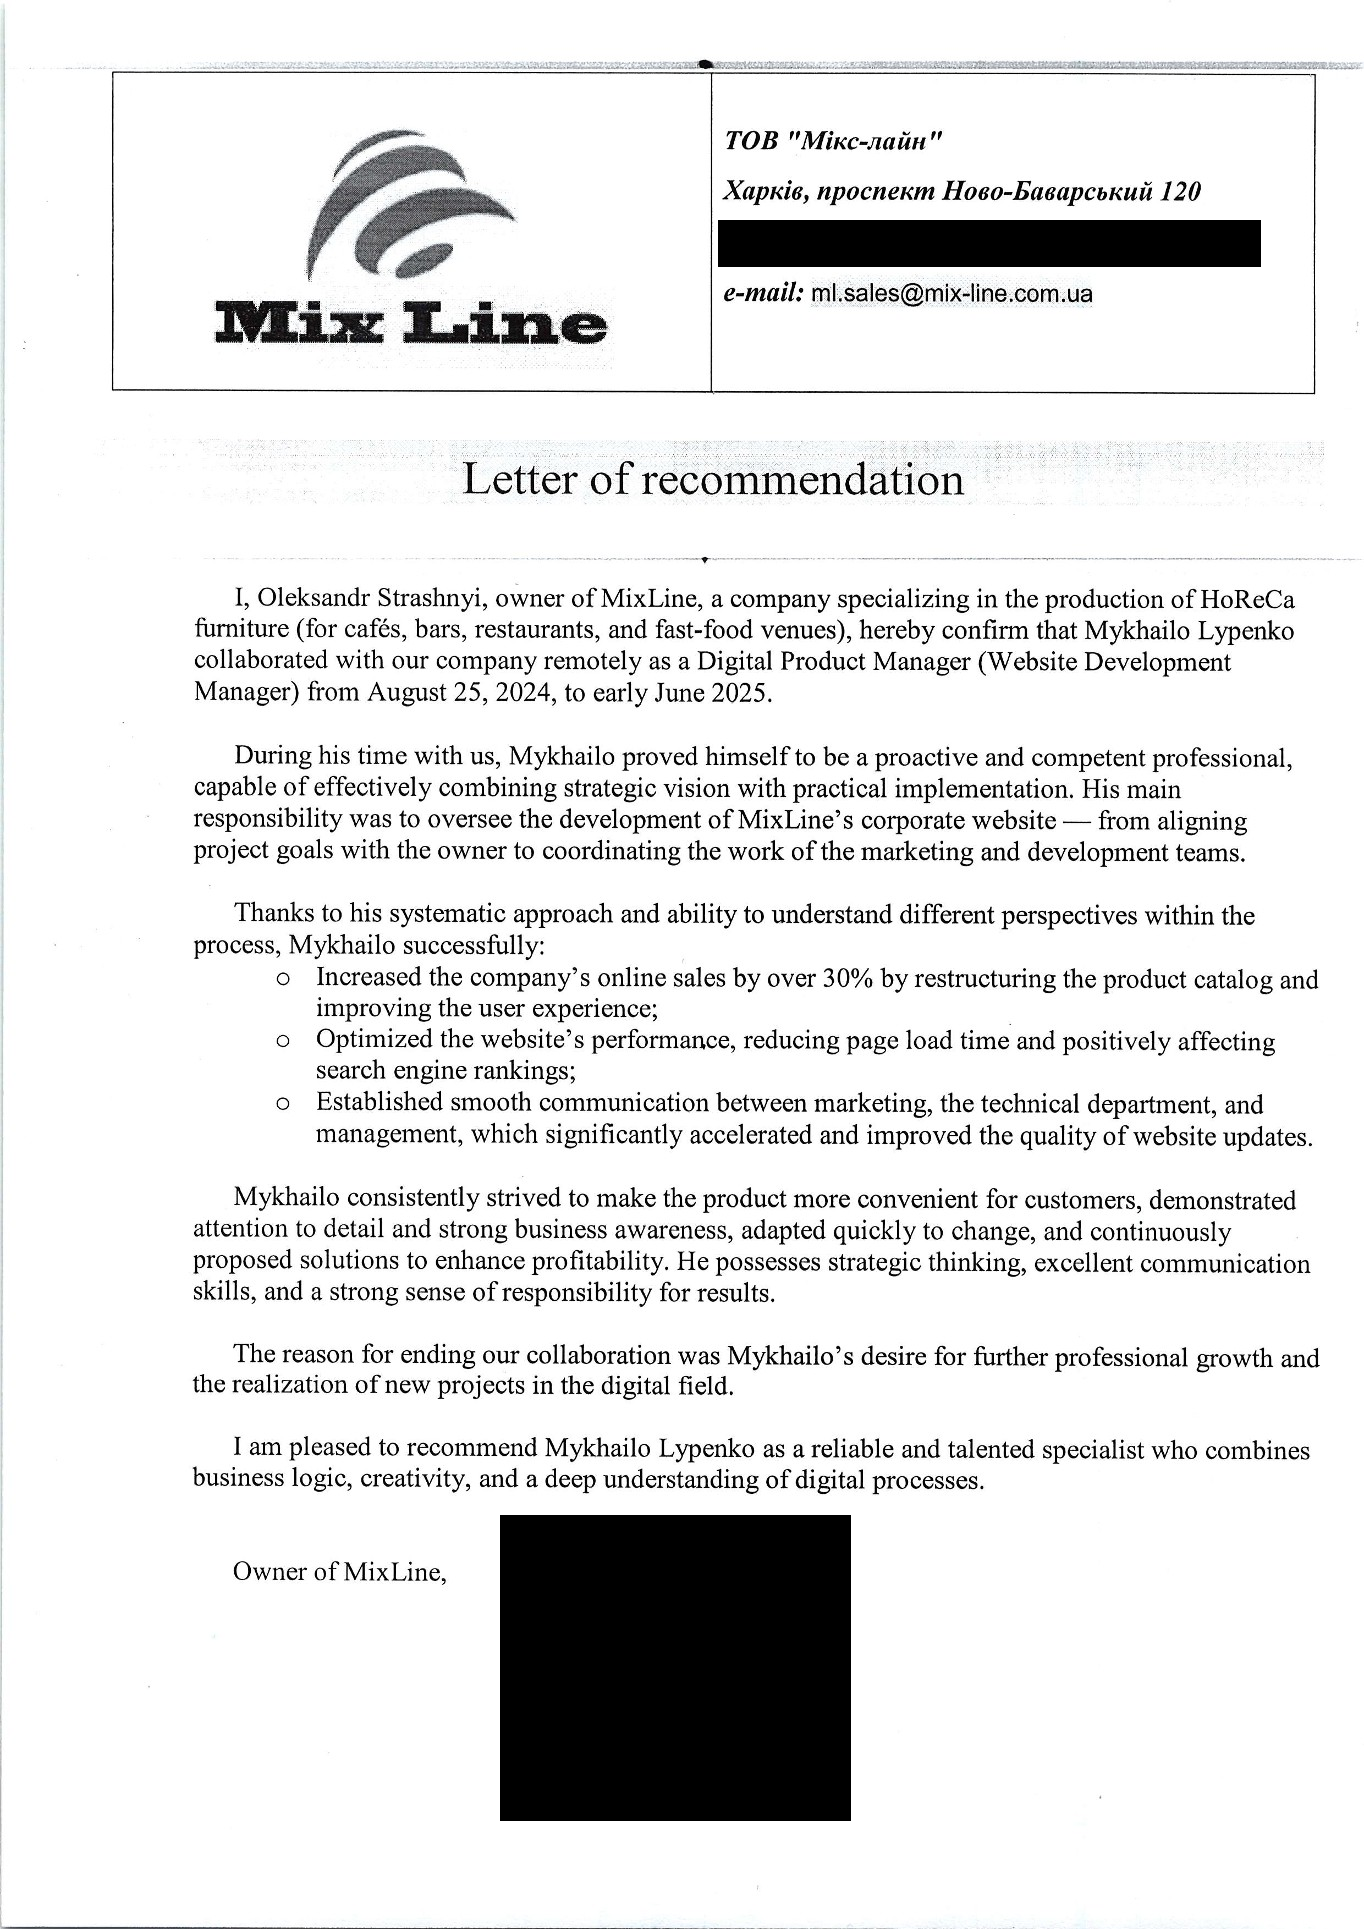
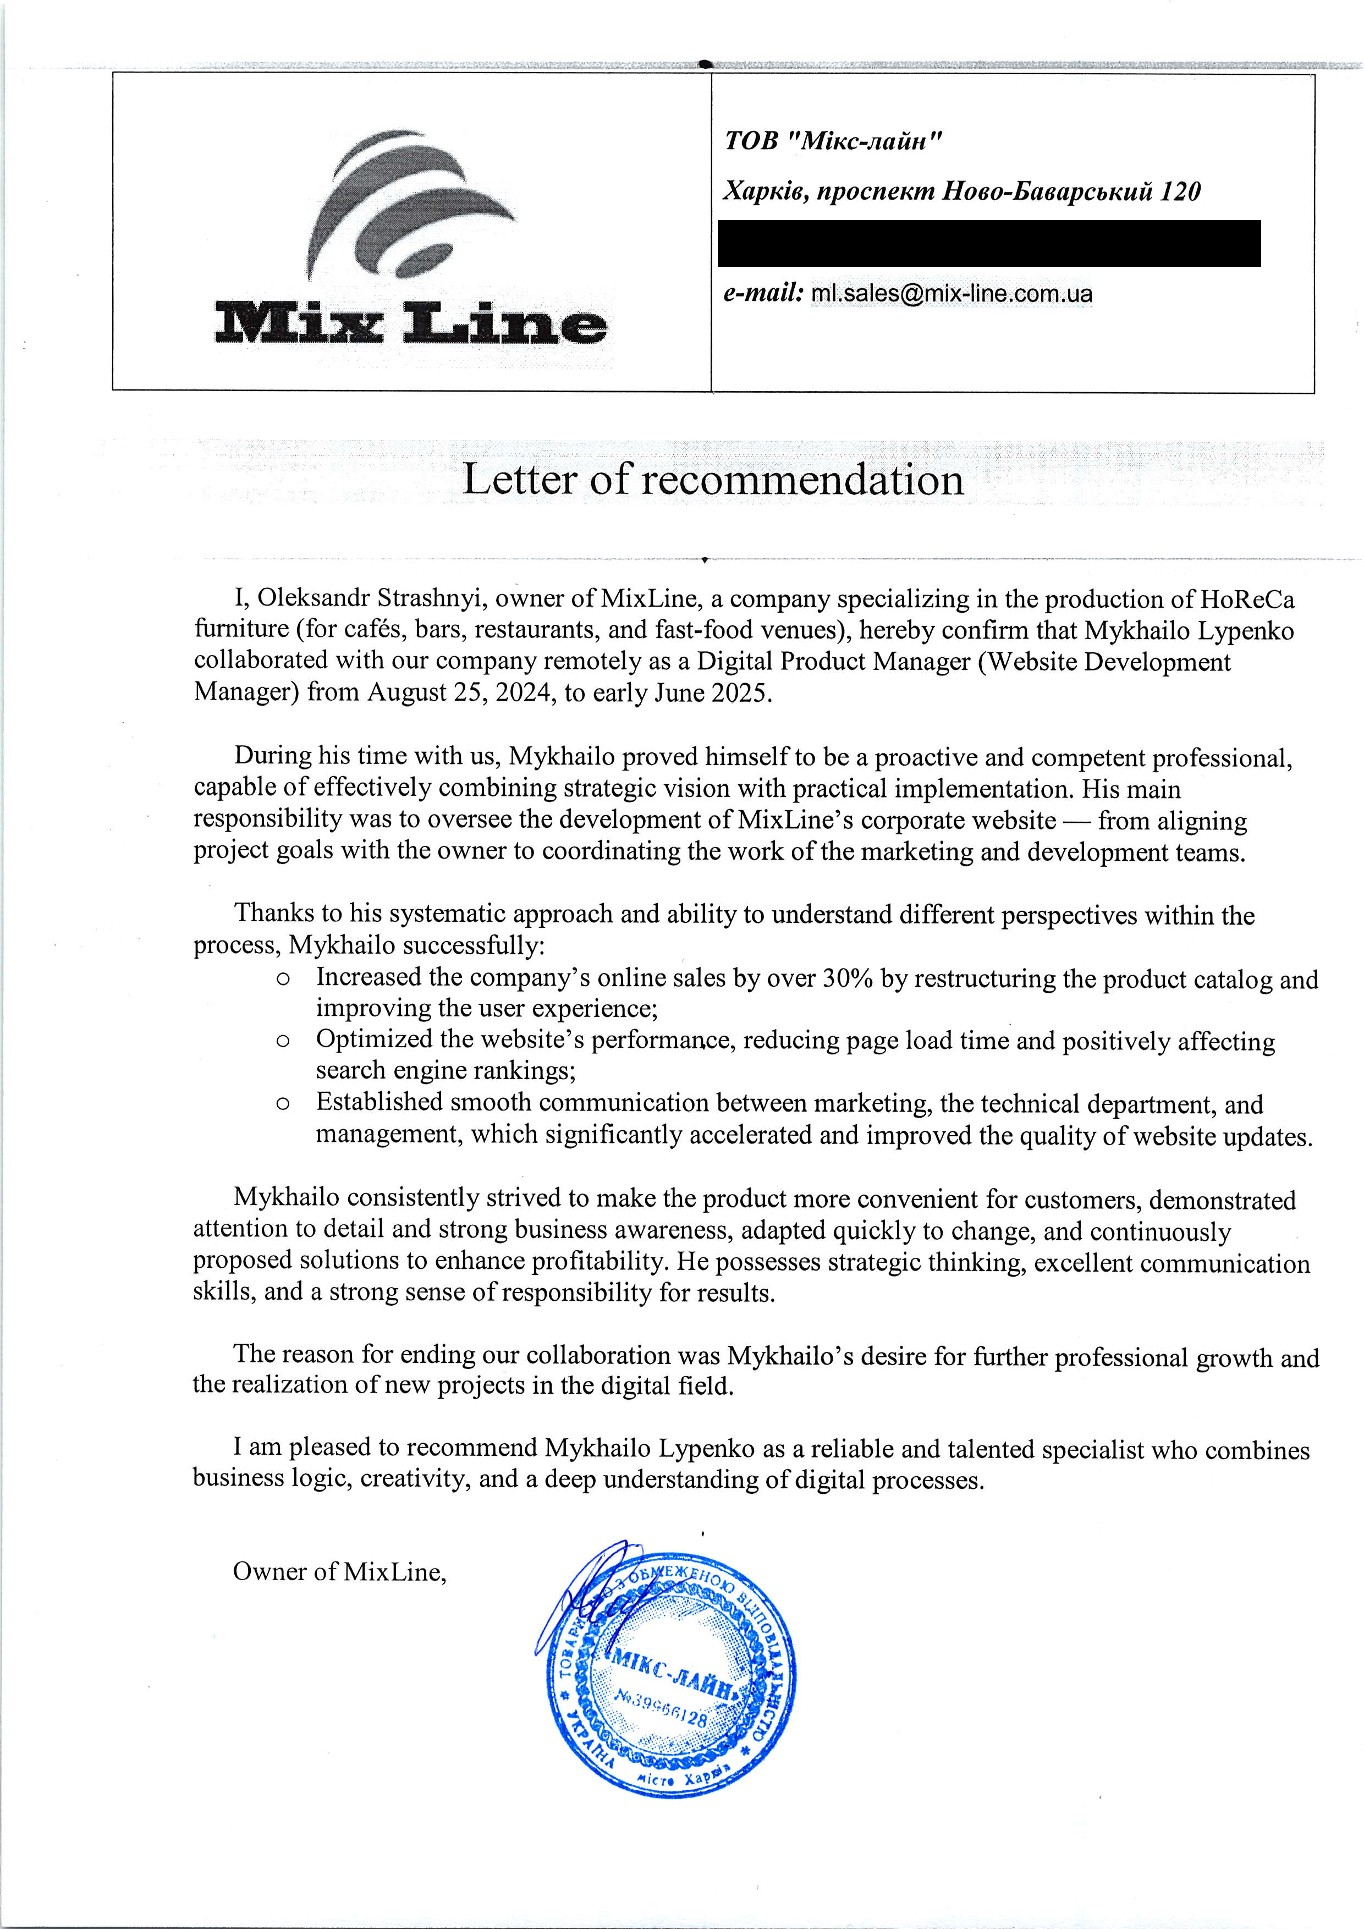
release: v1.0.1 — social preview and recommendation letter fix

Changed region(s): [[0.3695, 0.7776, 0.6466, 0.9642]]

diff --git a/index.html b/index.html
@@ -1,26 +1,30 @@
 <!doctype html>
-<html lang="en" data-version="1.0.0">
+<html lang="en" data-version="1.0.1">
   <head>
     <meta charset="utf-8" />
     <meta name="viewport" content="width=device-width,initial-scale=1" />
     <title>
       Mykhailo Lypenko — Product Manager | Žilina / Bratislava, Slovakia
     </title>
-    <meta name="description" content="Mykhailo Lypenko is a Product Manager focused on marketplaces, growth, automation and AI. Based in Žilina / Bratislava, Slovakia." />
+    <meta name="description" content="Product Manager focused on marketplaces, growth, automation and AI. Based in Žilina / Bratislava, Slovakia." />
     <meta name="author" content="Mykhailo Lypenko" />
     <meta name="robots" content="index, follow" />
     <meta name="theme-color" content="#0e0e0e" />
     <link rel="canonical" href="https://mykhailolypenko.com/" />
     <meta property="og:type" content="website" />
     <meta property="og:title" content="Mykhailo Lypenko — Product Manager" />
-    <meta property="og:description" content="Mykhailo Lypenko is a Product Manager focused on marketplaces, growth, automation and AI. Based in Žilina / Bratislava, Slovakia." />
+    <meta property="og:description" content="Product Manager focused on marketplaces, growth, automation and AI. Based in Žilina / Bratislava, Slovakia." />
     <meta property="og:url" content="https://mykhailolypenko.com/" />
     <meta property="og:site_name" content="Mykhailo Lypenko" />
     <meta property="og:locale" content="en_US" />
-    <meta name="twitter:card" content="summary" />
+    <meta property="og:image" content="https://mykhailolypenko.com/assets/social/og-image.jpg" />
+    <meta property="og:image:width" content="1200" />
+    <meta property="og:image:height" content="630" />
+    <meta name="twitter:card" content="summary_large_image" />
     <meta name="twitter:creator" content="@flopyev" />
     <meta name="twitter:title" content="Mykhailo Lypenko — Product Manager" />
-    <meta name="twitter:description" content="Mykhailo Lypenko is a Product Manager focused on marketplaces, growth, automation and AI. Based in Žilina / Bratislava, Slovakia." />
+    <meta name="twitter:description" content="Product Manager focused on marketplaces, growth, automation and AI. Based in Žilina / Bratislava, Slovakia." />
+    <meta name="twitter:image" content="https://mykhailolypenko.com/assets/social/og-image.jpg" />
     <link rel="icon" href="assets/icons/favicon.svg" type="image/svg+xml" />
     <link rel="preconnect" href="https://fonts.googleapis.com" />
     <link rel="preconnect" href="https://fonts.gstatic.com" crossorigin />
